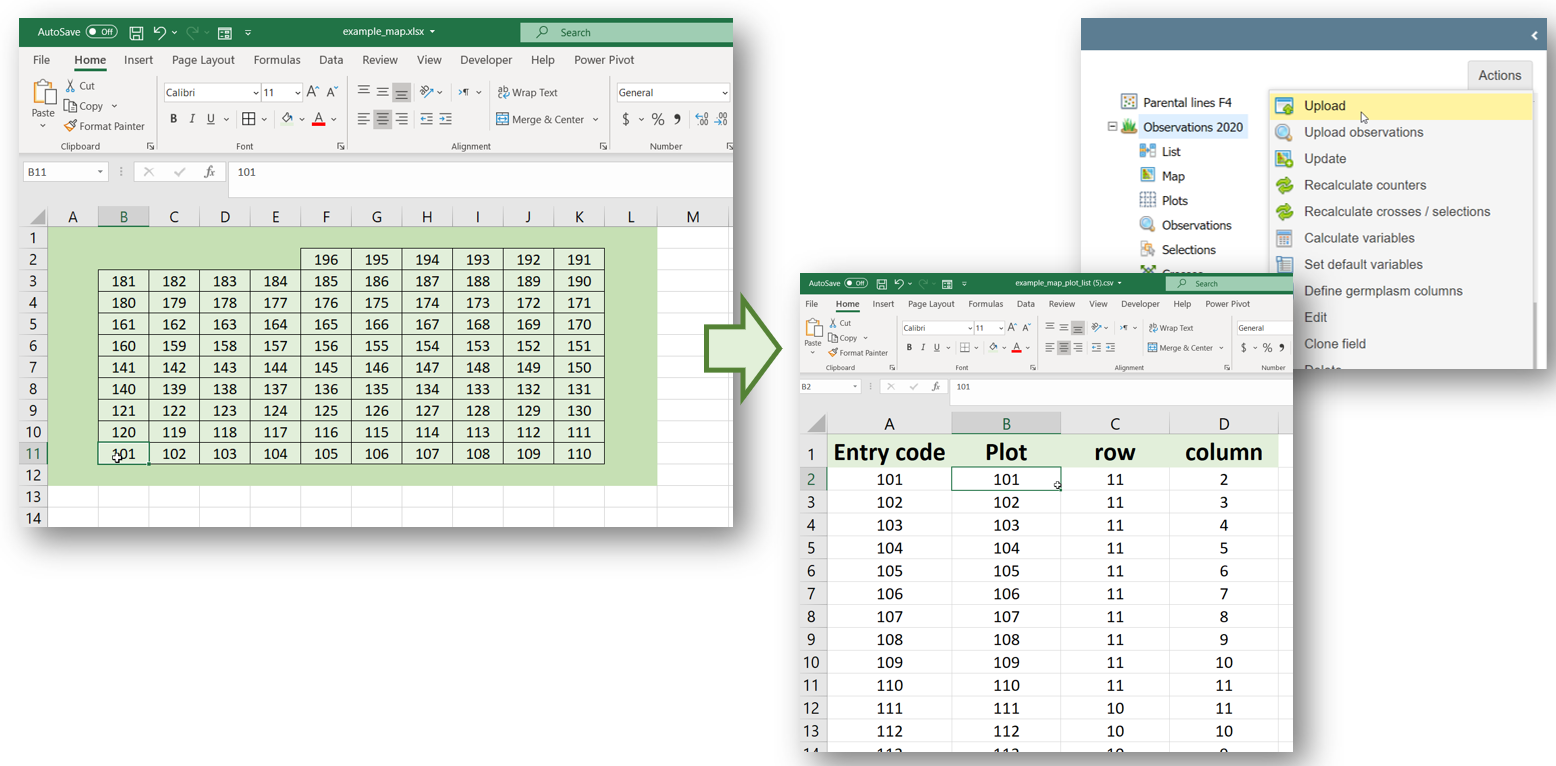
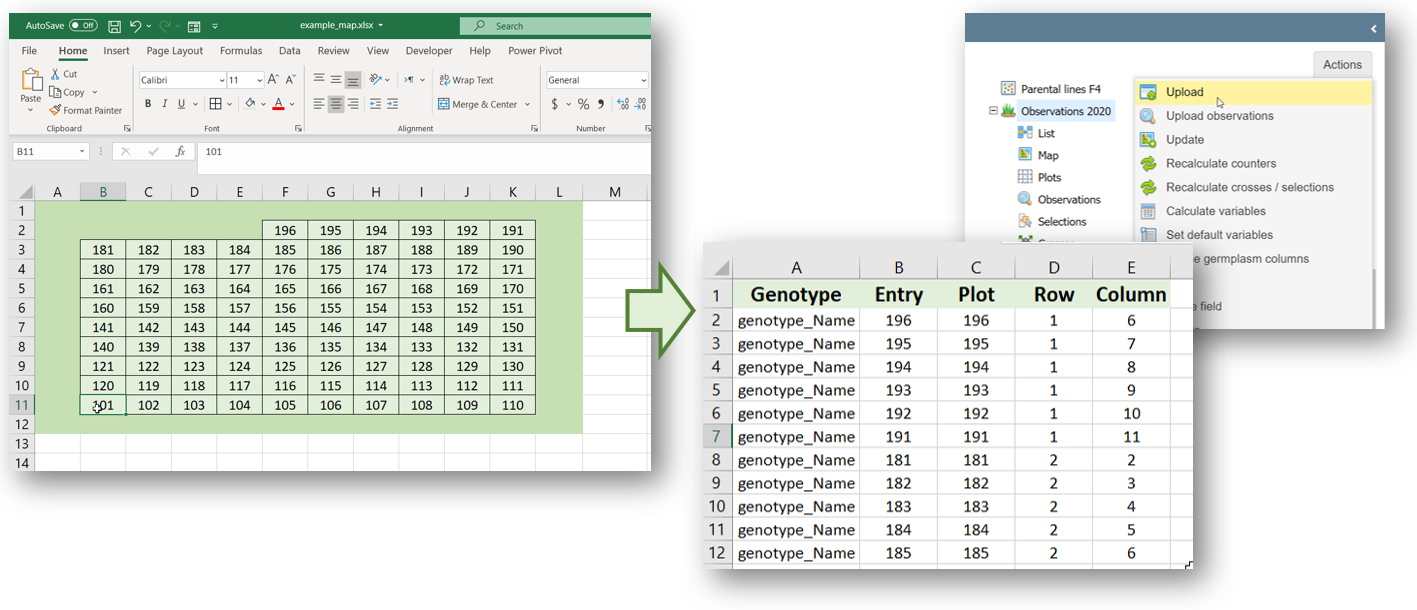
cleanup

diff --git a/app/templates/upload.html b/app/templates/upload.html
@@ -1,6 +1,6 @@
 {% extends "templates/public_template.html" %}
 
-{% block title %}Upload{% endblock %}
+{% block title %}PhenomeTools-FieldMapConverter{% endblock %}
 
 {% block main %}
 
@@ -16,7 +16,8 @@
                     <label>Convert 2-Dimensional map to a list of plots ready for upload into PhenomeOne</label>
                     <div class="custom-file">
                         <input type="file" class="custom-file-input" name="file" id="file-upload">
-                        <label class="custom-file-label" for="file-upload">Select file to convert (xlsx, xls, csv)..</label>
+                        <label class="custom-file-label" for="file-upload">Drag or Select file (xlsx, xls,
+                            csv)..</label>
                     </div>
                 </div>
 
@@ -34,6 +35,7 @@
                         $(this).next('.custom-file-label').html(cleanFileName);
                     })
                 </script>
+
             </form>
             {% with messages = get_flashed_messages() %}
             {% if messages %}

diff --git a/app/templates/templates/public_template.html b/app/templates/templates/public_template.html
@@ -9,8 +9,10 @@
   <link rel="stylesheet" href="{{ url_for('static', filename='css/bootstrap.min.css') }}">
   <!-- Import our custom stylesheet -->
   <link rel="stylesheet" href="{{ url_for('static', filename='css/style.css') }}">
-
-  <title>{% block title %}{% endblock %}</title>
+  <link rel="shortcut icon" type="image/png" href="static/img/favicon.png">
+  <title>    
+    {% block title %}{% endblock %}
+  </title>
   <!-- This script is to put the selected file in the select file box-->
   <script src="https://code.jquery.com/jquery-3.1.1.slim.min.js"
     integrity="sha384-A7FZj7v+d/sdmMqp/nOQwliLvUsJfDHW+k9Omg/a/EheAdgtzNs3hpfag6Ed950n"

diff --git a/app/views.py b/app/views.py
@@ -5,7 +5,6 @@ from werkzeug.utils import secure_filename
 import os
 import pandas as pd
 from app.util.helpers import upload_file_to_s3, save_csv_to_s3, allowed_image, allowed_file
-from app.util.map_converter import map_convert
 import boto3, botocore
 from app.util.map_convert import convert_map
 
@@ -28,12 +27,11 @@ def download_file(resource):
     url = s3.generate_presigned_url('get_object', Params = {'Bucket': os.getenv('AWS_BUCKET_NAME'), 'Key': resource}, ExpiresIn = 100)
     return redirect(url, code=302)
 
-
 @app.route('/upload', methods=['GET', 'POST'])
 def upload():
     if request.method == 'POST':
-
-       if request.files:
+        
+        if request.files:
             
             uploaded_file = request.files["file"]
 
@@ -54,47 +52,8 @@ def upload():
             else: #excel
                 plots = convert_map(pd.read_excel(request.files.get('file'), converters={'Date': str}))
 
-            df = pd.DataFrame(plots, columns=["Entry", "Plot", "Row", "Column"])
+            df = pd.DataFrame(plots, columns=["Genotype", "Entry", "Plot", "Row", "Column"])
             save_csv_to_s3(df, final_file_name)
              
             return redirect('/download/' + final_file_name)
     return render_template('upload.html')
-
-@app.route("/upload-file", methods=["GET", "POST"])
-def upload_file():
-
-    file_url = False
-
-    if request.method == "POST":
-
-        if request.files:
-
-            uploaded_file = request.files["file"]
-            if uploaded_file.filename == "":
-                flash("First select a file")
-                return redirect(request.url)
-            
-            if not allowed_file(uploaded_file.filename):
-                flash("File extension is not allowed, use only {}".format(', '.join(app.config['UPLOAD_EXTENSIONS'])))
-                return redirect(request.url)
-
-            # if " " in uploaded_file.filename:
-            #     flash("No spaces are allowed in file name")
-            #     return redirect(request.url)
-            else:
-                filename = secure_filename(uploaded_file.filename) 
-                file_url = upload_file_to_s3(uploaded_file)
-            # if upload success,will return file name of uploaded file
-            if file_url:
-
-                # flash("Successfully uploaded to {}".format(file_url))
-                # map convert and save to downloads folder
-                converted_file = map_convert(file_url, filename)
-                return redirect('/download/' + converted_file)    
-            # upload failed, redirect to upload page
-            else:
-                flash("Unable to upload, try again")
-                return redirect(request.url)
-        else:
-            flash("Selected file doesn't fit the template")
-    return render_template("upload_file.html")

diff --git a/app/util/map_convert.py b/app/util/map_convert.py
@@ -2,7 +2,7 @@ import pandas as pd
 
 def convert_map(df):
     '''Gets pandas df and returns a list of plots ready for Phenome Upload'''
-
+    germplasm_name = 'genotype_Name'
     [rows, cols] = df.shape
     # Empty table of plots
     plots = []
@@ -13,6 +13,6 @@ def convert_map(df):
                 continue
             else:
                 plot_name = str(df.iat[row-1, col-1])
-                plot = [plot_name, plot_name, row, col]
+                plot = [germplasm_name, plot_name, plot_name, row, col]
                 plots.append(plot)
     return plots

diff --git a/app/util/helpers.py b/app/util/helpers.py
@@ -35,7 +35,7 @@ def upload_file_to_s3(file, acl="public-read"):
 
 def save_csv_to_s3(df, filename):
     csv_buffer = StringIO() # stores csv in buffer area
-    df.to_csv(csv_buffer)
+    df.to_csv(csv_buffer, index=False)
     response = s3.put_object(
         ACL = 'public-read-write',
         Body = csv_buffer.getvalue(),
